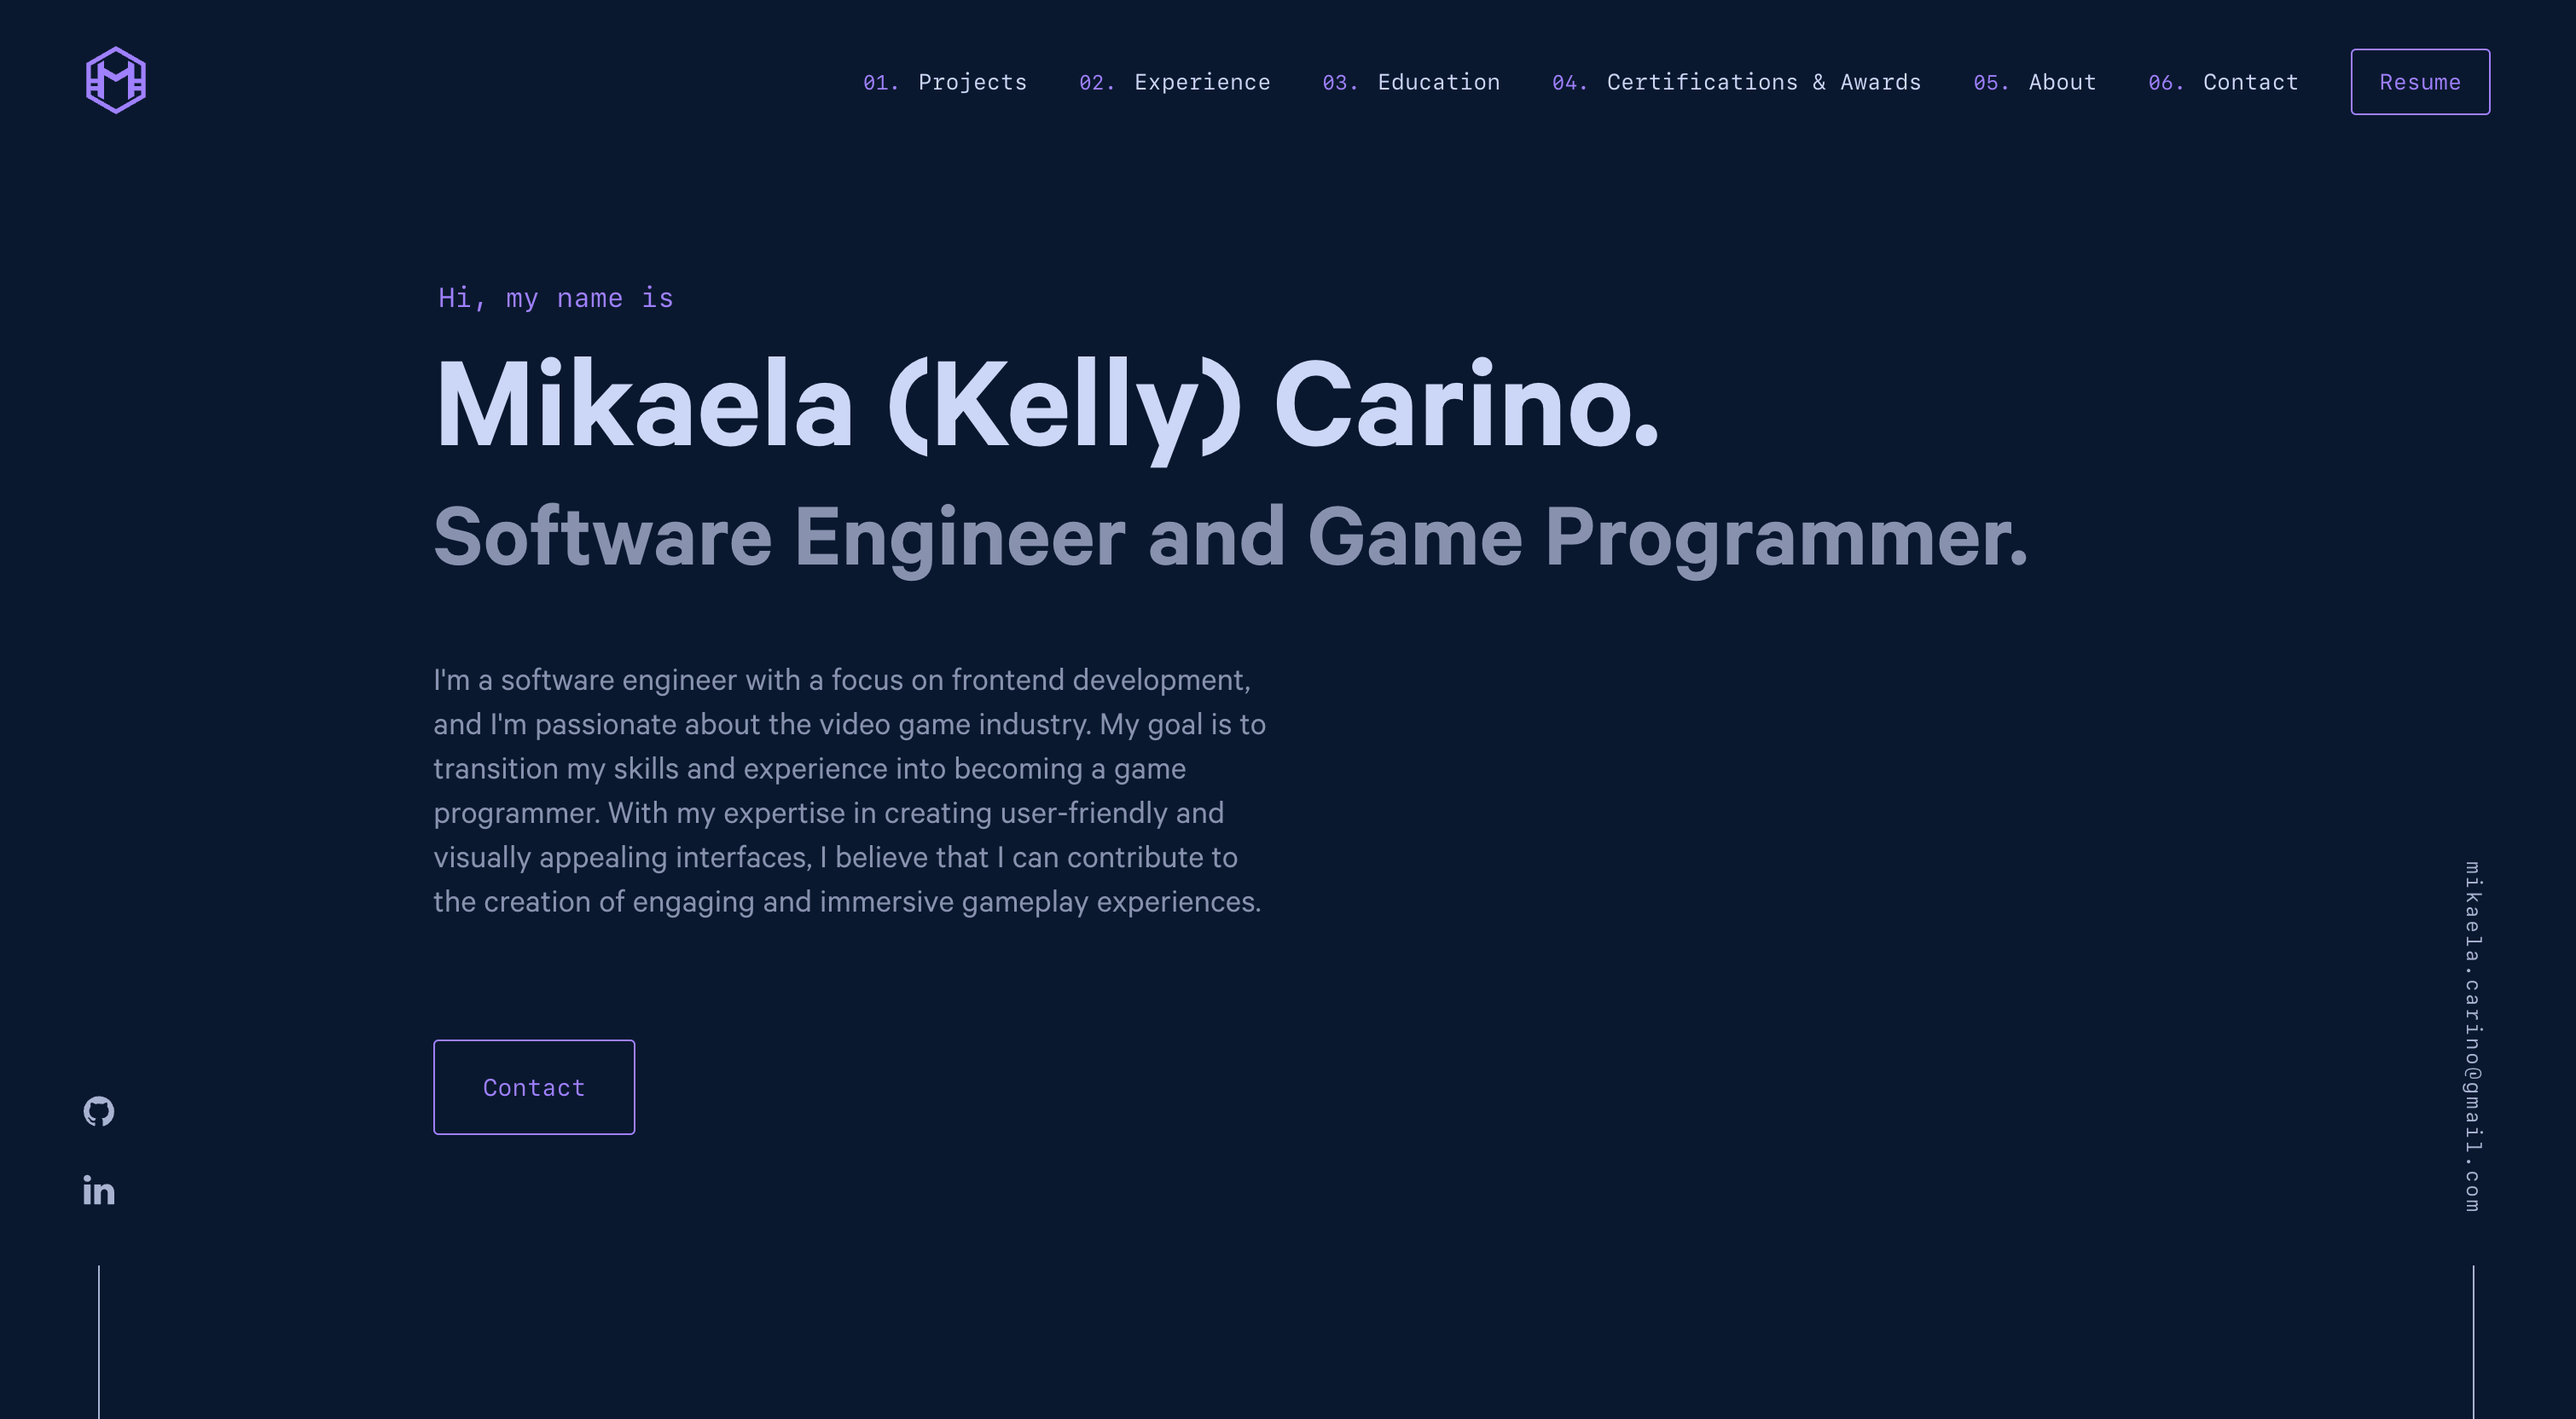
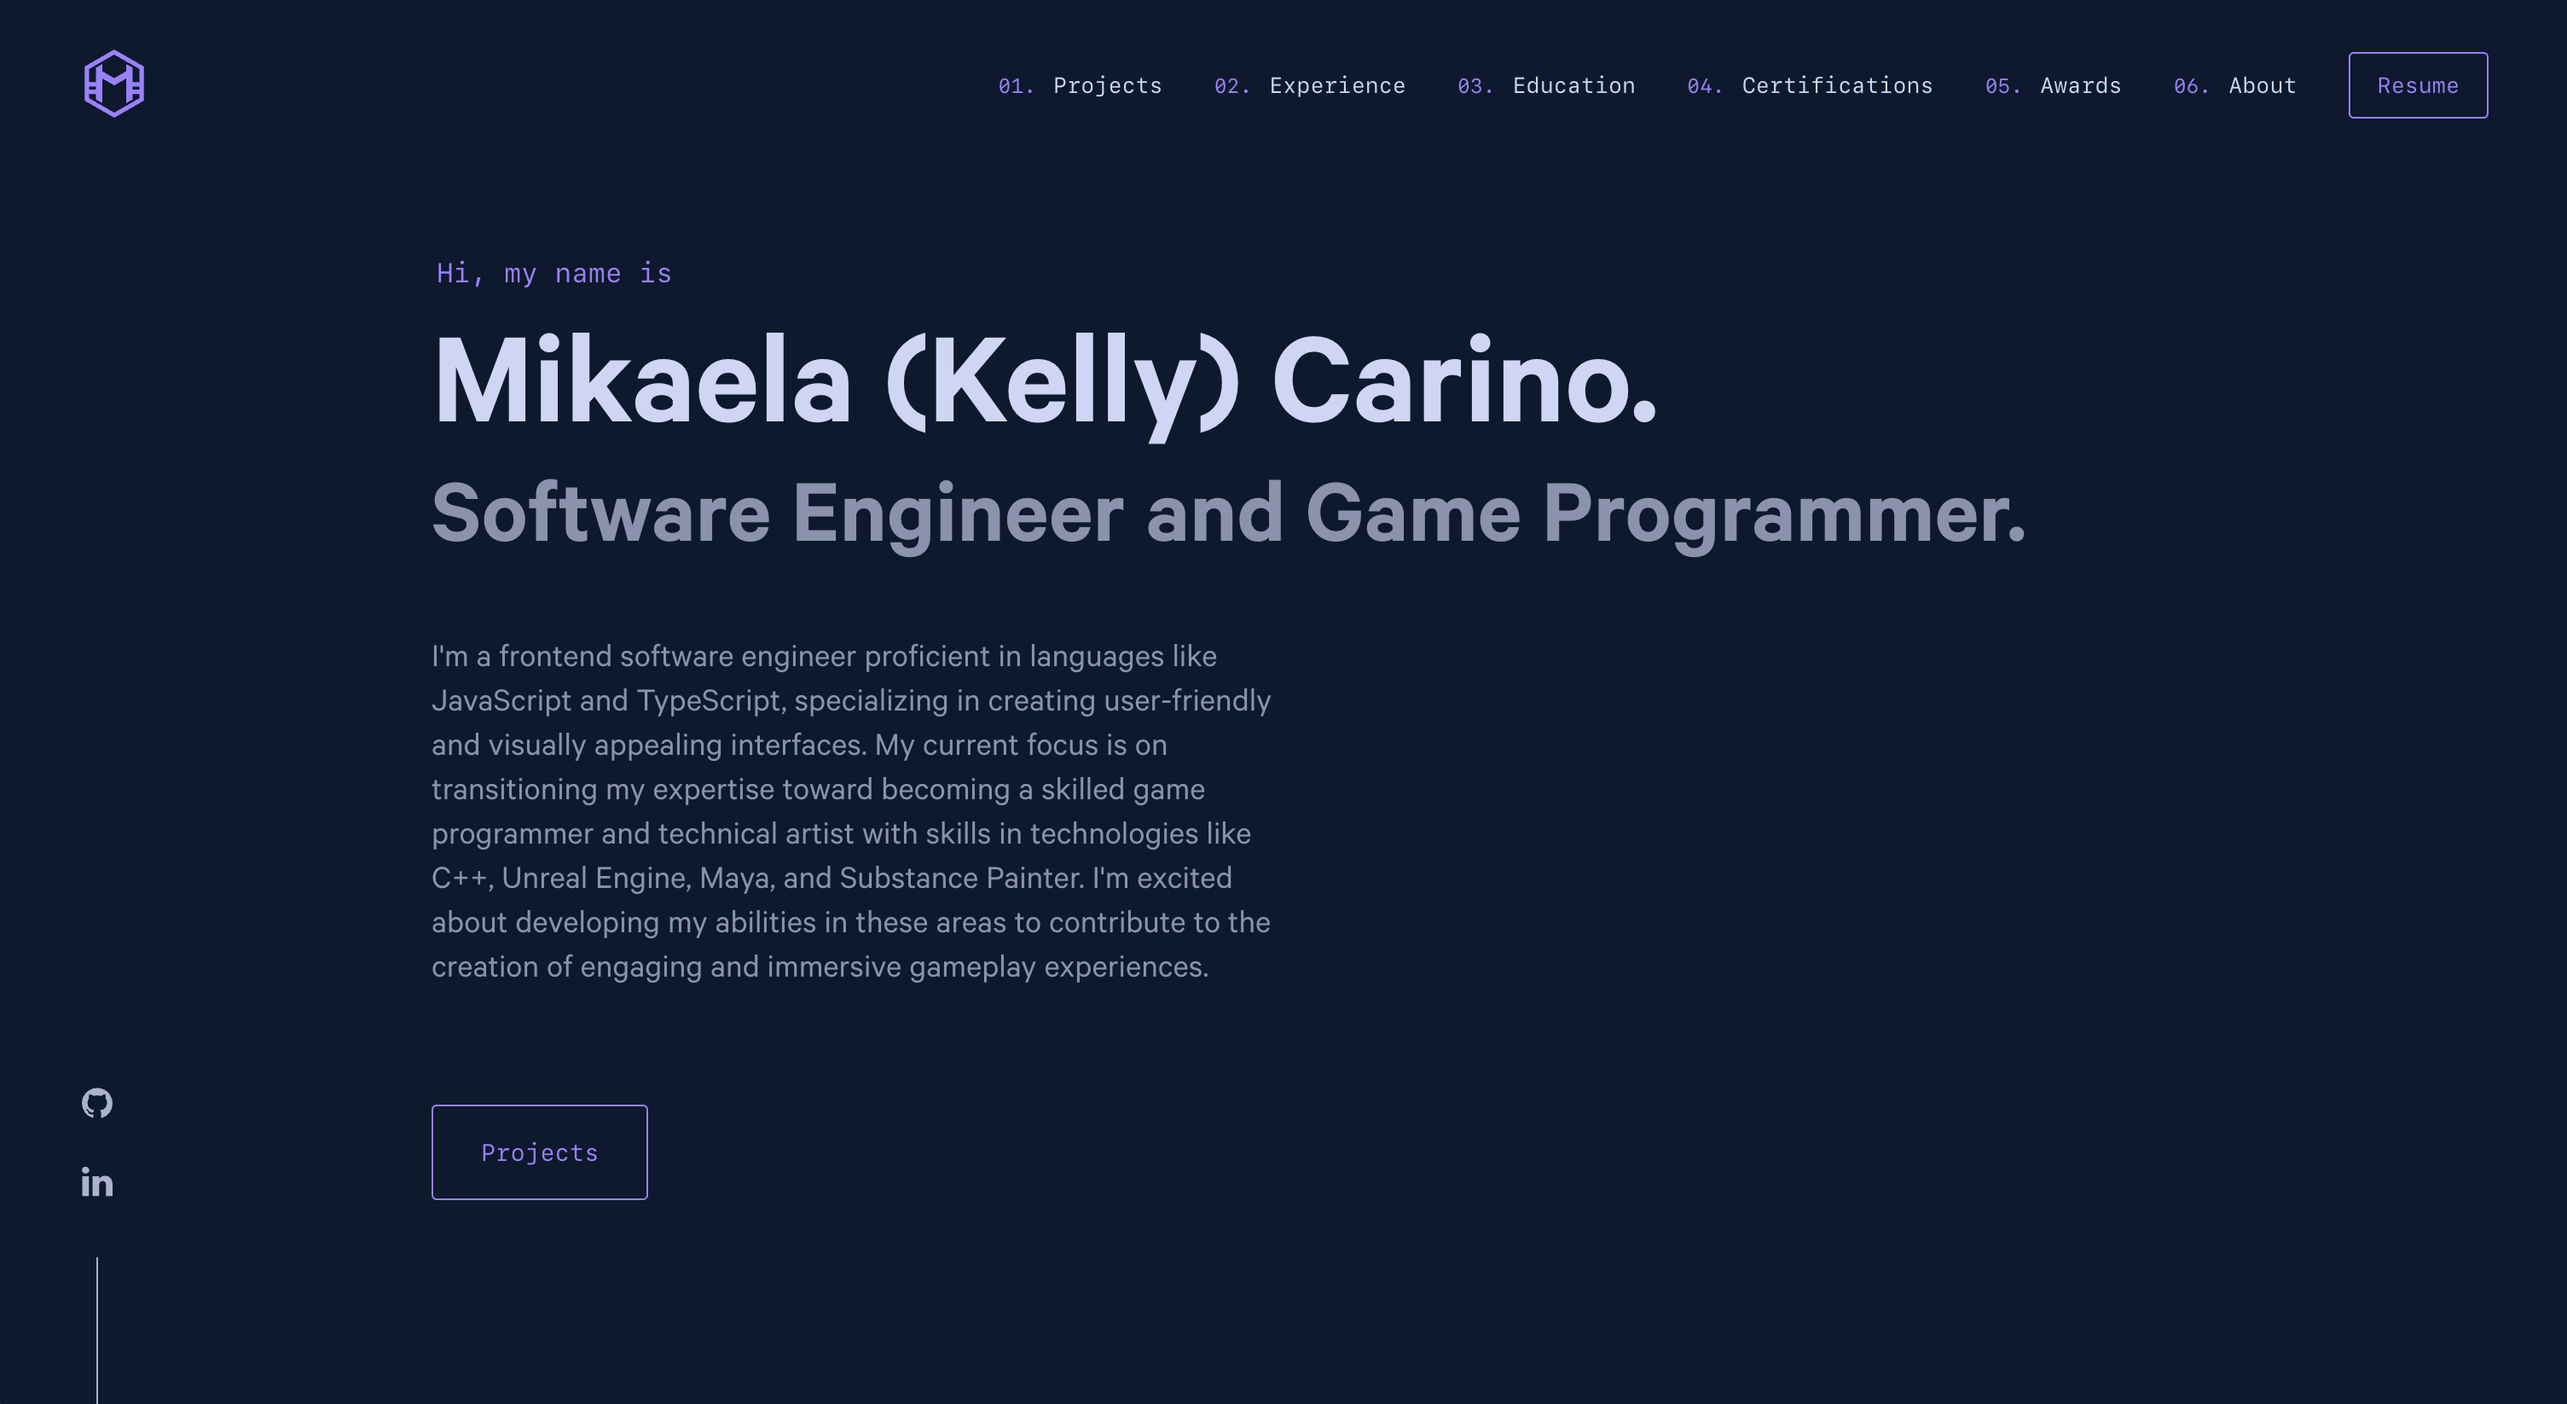
add year to landing page projects, update intro, about me

diff --git a/src/components/sections/featured.js b/src/components/sections/featured.js
@@ -39,10 +39,21 @@ const StyledLabel = styled.h4`
 `;
 const StyledProjectName = styled.h5`
   font-size: 28px;
-  margin: 0 0 20px;
   color: ${colors.lightestSlate};
+  margin: 0;
   ${media.tablet`font-size: 24px;`};
   ${media.thone`color: ${colors.white};`};
+  a {
+    ${media.tablet`display: block;`};
+  }
+`;
+const StyledProjectYear = styled.div`
+  font-size: ${fontSizes.smish};
+  margin: 0 0 20px;
+  color: ${colors.slate};
+  font-family: ${fonts.SFMono};
+  ${media.tablet`font-size: ${fontSizes.smish}; margin: 0`};
+  ${media.thone`color: ${colors.slate};`};
   a {
     ${media.tablet`display: block;`};
   }
@@ -258,7 +269,7 @@ const Featured = ({ data }) => {
         {featuredProjects &&
           featuredProjects.map(({ node }, i) => {
             const { frontmatter, html } = node;
-            const { id, external, title, tech, github, cover, subtitle } = frontmatter;
+            const { id, external, title, tech, github, cover, subtitle, year } = frontmatter;
 
             return (
               <StyledProject key={i} ref={el => (revealProjects.current[i] = el)}>
@@ -270,13 +281,15 @@ const Featured = ({ data }) => {
                         href={external}
                         target="_blank"
                         rel="nofollow noopener noreferrer"
-                        aria-label="External Link">
+                        aria-label="External Link"
+                      >
                         {title}
                       </a>
                     ) : (
                       title
                     )}
                   </StyledProjectName>
+                  <StyledProjectYear>{year}</StyledProjectYear>
                   <StyledDescription dangerouslySetInnerHTML={{ __html: html }} />
                   {tech && (
                     <StyledTechList>
@@ -291,7 +304,8 @@ const Featured = ({ data }) => {
                         href={github}
                         target="_blank"
                         rel="nofollow noopener noreferrer"
-                        aria-label="GitHub Link">
+                        aria-label="GitHub Link"
+                      >
                         <FormattedIcon name="GitHub" />
                       </a>
                     )}
@@ -300,7 +314,8 @@ const Featured = ({ data }) => {
                         href={external}
                         target="_blank"
                         rel="nofollow noopener noreferrer"
-                        aria-label="External Link">
+                        aria-label="External Link"
+                      >
                         <FormattedIcon name="External" />
                       </a>
                     )}
@@ -318,7 +333,8 @@ const Featured = ({ data }) => {
                   <StyledImgContainer
                     onClick={() => handleClickOpen(subtitle, title)}
                     rel="nofollow noopener noreferrer"
-                    target="_blank">
+                    target="_blank"
+                  >
                     <StyledFeaturedImg fluid={cover.childImageSharp.fluid} alt={title} />
                   </StyledImgContainer>
                 )}
@@ -329,7 +345,8 @@ const Featured = ({ data }) => {
       <StyledViewAllButton
         onClick={() => {
           navigate('/projects');
-        }}>
+        }}
+      >
         View all projects
       </StyledViewAllButton>
     </StyledContainer>

diff --git a/src/pages/index.js b/src/pages/index.js
@@ -170,6 +170,7 @@ export const pageQuery = graphql`
             tech
             github
             external
+            year
           }
           html
         }

diff --git a/src/pages/projects.js b/src/pages/projects.js
@@ -511,6 +511,7 @@ export const pageQuery = graphql`
             tech
             github
             external
+            year
           }
           html
         }

diff --git a/content/about/index.md b/content/about/index.md
@@ -11,12 +11,20 @@ skills:
   - Substance Painter
 ---
 
-Hello! I'm Mikaela, often known as Kelly, a self-taught frontend software engineer with a deep-rooted passion for video games. Picture me immersed in the world of the original Nintendo, or engrossed in family LAN parties, navigating my way through classics like Hexen and Doom—that's where my journey began.
+Hello there! I'm Mikaela, but you can call me Kelly. I'm a self-taught frontend software engineer with a deep passion for video games. My journey into the world of gaming began with classics like Hexen and Doom during family LAN parties and the original Nintendo console.
 
-My love for video games is not just about playing, it's about the immersive experiences and alternate realities they create. Titles like The Last of Us Part I & II, Horizon Zero Dawn, Horizon Forbidden West, the Zelda series, and the Halo series are among my favorites.
+As I reflect on titles like The Last of Us Part I & II, Horizon Zero Dawn, Horizon Forbidden West, the Zelda series, and the Halo series, it becomes clear why they are my top picks. It's all about the immersive experiences and alternate realities they offer.
 
-Following my studies in art and design at SJSU, I took a pivot into the realm of software engineering, with an emphasis on frontend development. But the game enthusiast in me remains alive and well. In fact, I'm currently broadening my skill set by learning more about game development through courses on C++ and Unreal Engine at CG Spectrum.
+The immersive stories draw me in, making me feel emotionally connected to the characters and their struggles. Intricate narratives keep me engaged, often leaving me pondering the game's events long after I've finished playing.
 
-I'm an avid explorer of new technologies and programming languages within the video game industry. I hold the philosophy that there's always room for growth and learning in any developer's journey. Excitement fills me as I continue to delve into the video game industry, eagerly anticipating the challenges and opportunities that lie ahead.
+Moreover, the stunning graphics in these titles transport me to beautifully rendered worlds, adding a visual depth to the gaming experience that is truly awe-inspiring. It's not just about playing a game; it's about being part of a visually breathtaking universe.
+
+The inclusion of strong female protagonists in some of these games is another aspect I admire. It's empowering to see women take on central roles, demonstrating their strength, resilience, and complexity. These characters serve as powerful role models and contribute to the richness of the storytelling.
+
+Finally, the gameplay itself is a key factor in my love for these games. The mechanics are well-designed, offering a perfect balance of challenge and enjoyment, making every moment of gameplay an absolute joy.
+
+After studying art and design at SJSU, I shifted gears into software engineering, specializing in frontend development. I'm a passionate explorer of new technologies and programming languages within the gaming industry and I firmly believe that there's always room for growth and learning in a developer's journey. I'm excited to keep delving into the world of video games, eagerly anticipating the challenges and opportunities ahead.
+
+Currently, I'm expanding my horizons by delving into game development through courses in C++, Unreal Engine, 3D Modeling, and Technical Art at CG Spectrum.
 
 Here are a few technologies I've been working with recently:

diff --git a/content/hero/index.md b/content/hero/index.md
@@ -5,4 +5,4 @@ subtitle: 'Software Engineer and Game Programmer.'
 buttonText: 'Projects'
 ---
 
-I'm a software engineer with a focus on frontend development, and I'm passionate about the video game industry. My goal is to transition my skills and experience into becoming a game programmer. With my expertise in creating user-friendly and visually appealing interfaces, I believe that I can contribute to the creation of engaging and immersive gameplay experiences.
+I'm a frontend software engineer proficient in languages like JavaScript and TypeScript, specializing in creating user-friendly and visually appealing interfaces. My current focus is on transitioning my expertise toward becoming a skilled game programmer and technical artist with skills in technologies like C++, Unreal Engine, Maya, and Substance Painter. I'm excited about developing my abilities in these areas to contribute to the creation of engaging and immersive gameplay experiences.

diff --git a/content/featured/SteampunkRPG/index.md b/content/featured/SteampunkRPG/index.md
@@ -1,8 +1,9 @@
 ---
 id: '1'
 date: '01-01-2023'
+year: '2023'
 title: 'Automaton Alpha'
-subtitle: 'April 2023 - Present'
+subtitle: 'April 2023 - July 2023'
 cover: './steampunkrpg.png'
 github: 'https://github.com/mikellykels/RPG'
 external: ''
@@ -14,4 +15,4 @@ tech:
 showInProjects: true
 ---
 
-A steampunk-themed RPG designed using C++ and Unreal Engine 5.1. Practicing and exploring an equipment system, a dynamic attack mechanism, detailed player stats, enemy AI, and UI elements. Also entered as part of the [Rookie Awards 2023](https://www.therookies.co/entries/21590).
+A steampunk-themed RPG using C++ and Unreal Engine 5.1, incorporating features like an equipment system, attack system, player stats, enemy AI, and UI elements. This project was part of my entry for the [Rookie Awards 2023](https://www.therookies.co/entries/21590), a prestigious competition spotlighting emerging talent in the creative industry.

diff --git a/content/jobs/Lightstep/index.md b/content/jobs/Lightstep/index.md
@@ -7,7 +7,7 @@ range: 'June 2022 - Present'
 url: 'https://www.servicenow.com/products/observability.html'
 ---
 
-- Formerly Lightstep - Acquired by ServiceNow.
+- Formerly know as Lightstep - acquired by ServiceNow.
 - Spearhead the development of innovative features in the Cloud Observability product, notably Notebooks, Change Intelligence, and Alerts, enhancing user experience and driving increased user engagement.
 - Facilitate cross-functional collaboration, ensuring cohesive product features that resonate with user needs and streamline their journey.
 - Manage multiple Jira projects from conception to completion, leading to timely product releases that consistently meet user expectations.

diff --git a/content/jobs/Massdrop/index.md b/content/jobs/Massdrop/index.md
@@ -7,7 +7,7 @@ range: 'January 2015 - February 2017'
 url: 'https://drop.com/'
 ---
 
-- Formerly Massdrop.
+- Formerly known as Massdrop.
 - Managed 12 employees, 2 onsite and 9 offsite, and collaborated with the offsite team’s Program Manager.
 - Improved productivity by 60% for our offsite team by motivating the team to focus on a single KPI, which proved to drive corresponding metrics.
 - Worked directly with our Project Managers and Development team to propose, develop, and release product features.

diff --git a/content/featured/LuxLabyrinth/index.md b/content/featured/LuxLabyrinth/index.md
@@ -1,6 +1,7 @@
 ---
 id: '3'
 date: '01-04-2023'
+year: '2023'
 title: 'Lux Labyrinth'
 subtitle: 'July 2023'
 cover: './luxLabyrinth.png'

diff --git a/content/featured/Tantrumn/index.md b/content/featured/Tantrumn/index.md
@@ -1,6 +1,7 @@
 ---
 id: '2'
 date: '01-02-2023'
+year: '2023'
 title: 'Tantrumn'
 subtitle: '2023'
 cover: './tantrumn.png'
